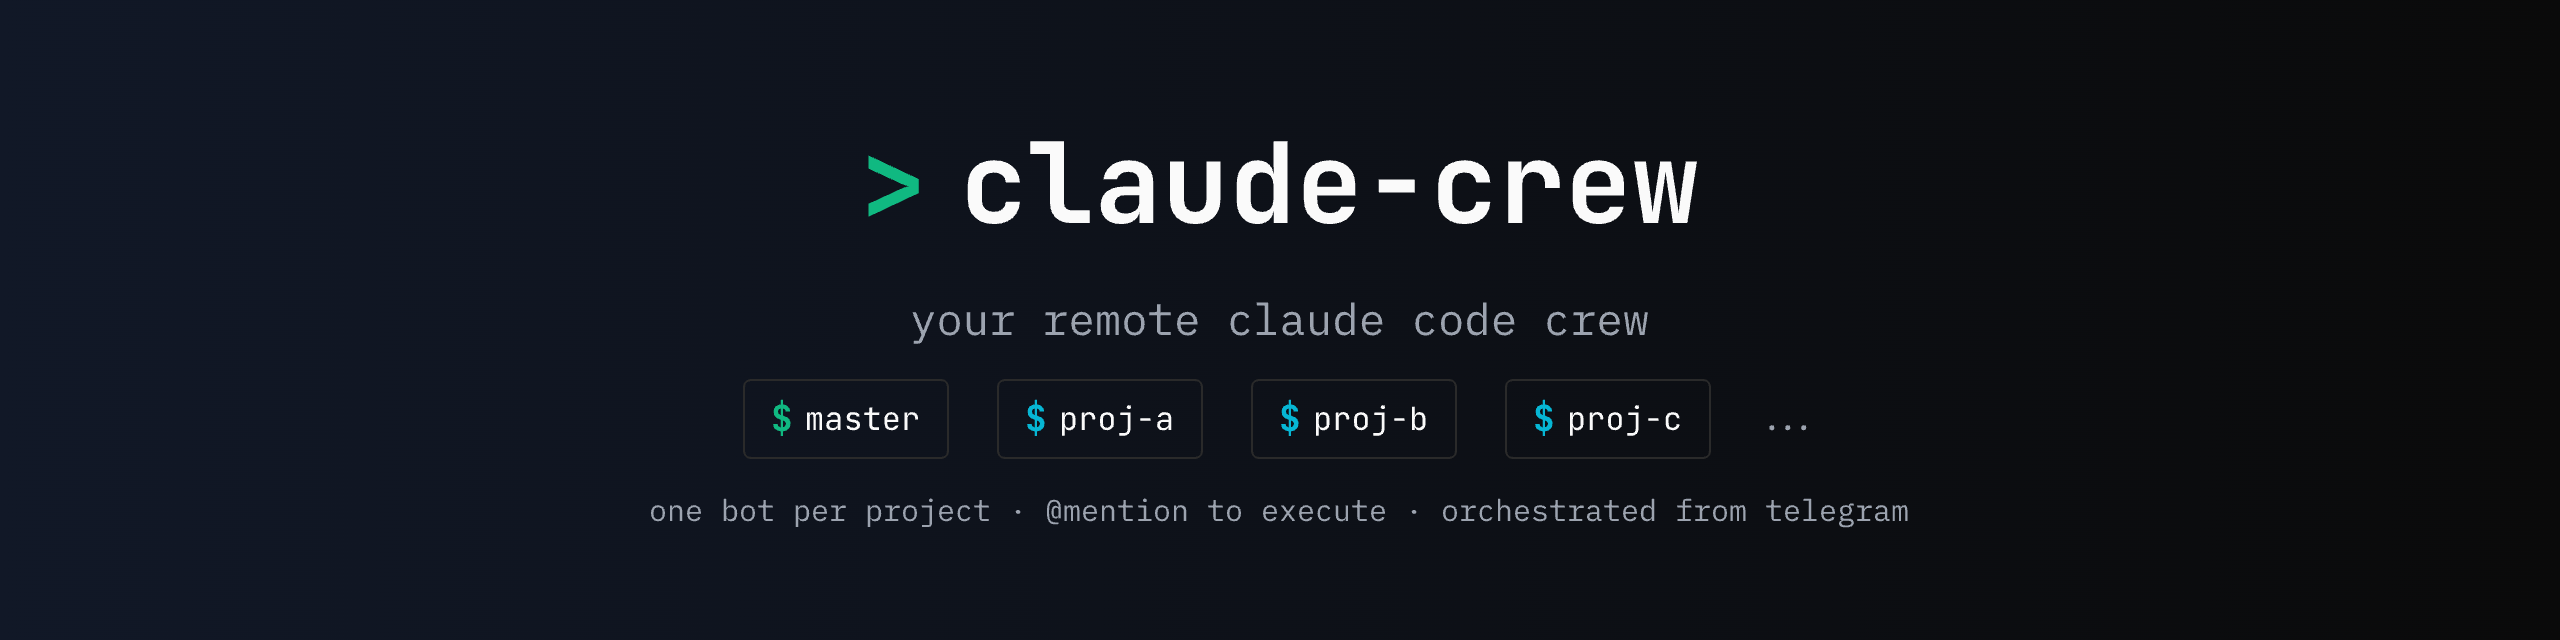
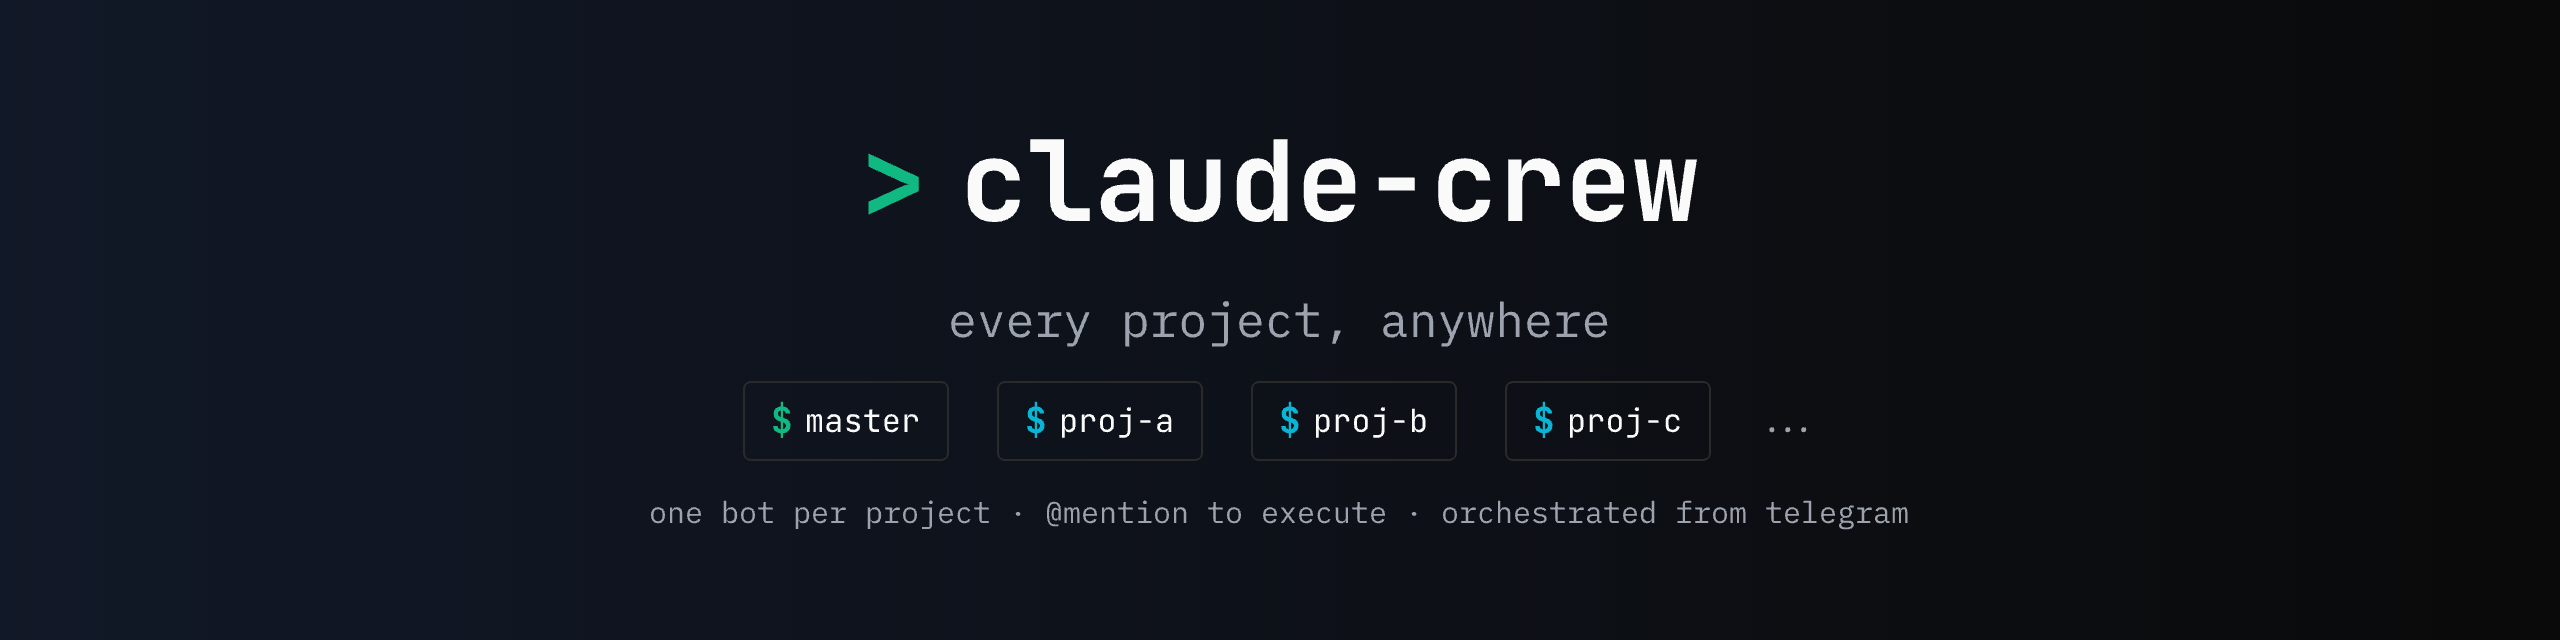
docs: new slogan "Claude Code — Every Project, Anywhere"
Updated banner, README taglines, and package.json description.

diff --git a/README_CN.md b/README_CN.md
@@ -11,7 +11,9 @@
   <img src="https://img.shields.io/badge/Telegram-Bot_API-26A5E4" alt="Telegram">
 </p>
 
-你的 Claude Code 远程指挥部 —— 一个 bot 一个项目。一人群控所有项目，或将 AI 超能力共享给团队，同一个群里各司其职、互不干扰。任何设备、任何时间。
+**Claude Code — Every Project, Anywhere.**
+
+一个 bot 一个项目。一人群控所有项目，或将 AI 超能力共享给团队，同一个群里各司其职、互不干扰。
 
 ## 🎯 三种使用模式
 

diff --git a/README.md b/README.md
@@ -11,7 +11,9 @@
   <img src="https://img.shields.io/badge/Telegram-Bot_API-26A5E4" alt="Telegram">
 </p>
 
-Your remote Claude Code command center — one bot per project. Go solo and run everything from one chat, or bring your team into one group to divide and conquer. Any device, any time.
+**Claude Code — Every Project, Anywhere.**
+
+One bot per project. Go solo and run everything from one chat, or bring your team into one group to divide and conquer.
 
 ## 🎯 Three Ways to Use
 
